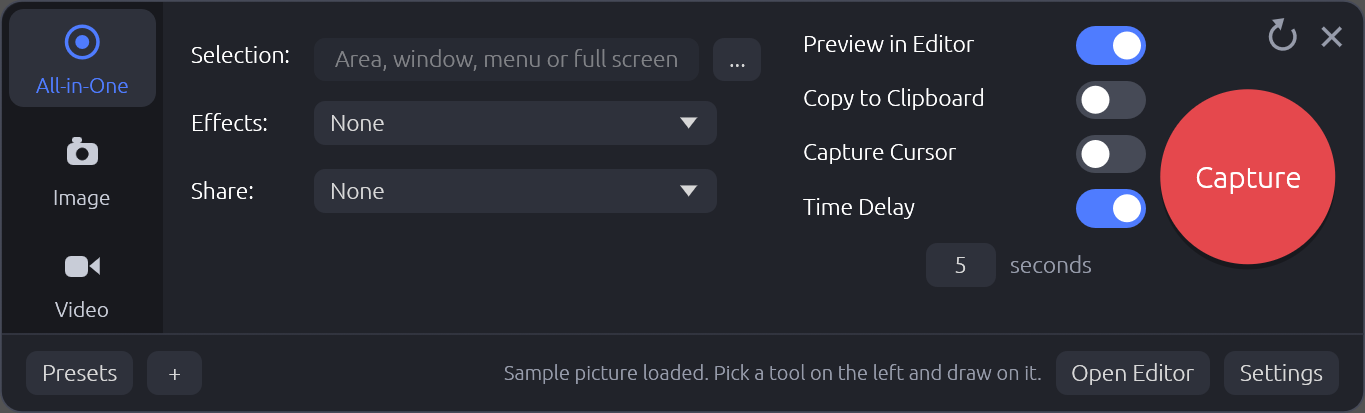
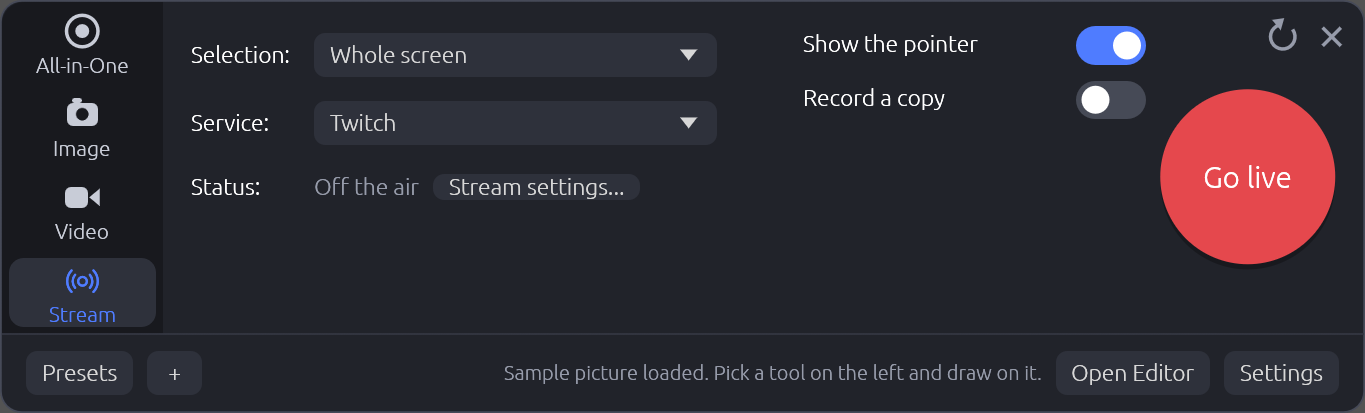
Public repository: only what users need; README pictures and features updated
- working notes, plans, developer docs and hardware scripts moved to the private Snagster-internal repository (and ignored here)
- README: new pictures (Stream tab, multistreaming settings, capture panel's Stream tab, refreshed main, Studio, languages, AI apps), multistreaming, encoder choice and responsiveness in the feature list, build steps instead of links to developer docs
- hardware report form uses Snagster's built-in --video-test and --stream-test

diff --git a/README.md b/README.md
@@ -23,11 +23,12 @@ Windows · Mac · Linux · 86 languages · works offline · written in Rust · f
 - **Mark it up** – arrows, boxes, text in any of your fonts, speech bubbles, numbered steps, 1,300+ color emojis, highlighter, spotlight, magnifier, blur and smart redact for private details.
 - **Tidy it up** – crop, cut out, move parts of the picture, borders, shadows, torn edges and more.
 - **Grab text** – copy the text out of any picture or part of the screen (Windows).
-- **Record videos with sound** – MP4 (H.264 or HEVC) or WMV, 1 to 120 frames per second, with the computer's sound, your microphone or both (sound on Windows for now). The graphics chip does the encoding where it can (Intel Quick Sync, AMD or NVIDIA on Windows; VideoToolbox on Mac and VA-API on Linux are new and not yet tried on real hardware), so recording barely touches the processor or the battery. Videos go to your **Videos/Snagster** folder, pictures to **Pictures/Snagster**.
+- **Record videos with sound** – MP4 (H.264 or HEVC) or WMV, 1 to 120 frames per second, with the computer's sound, your microphone or both (sound on Windows for now). The graphics chip does the encoding where it can (Intel Quick Sync, AMD or NVIDIA on Windows; VideoToolbox on Mac and VA-API on Linux are new and not yet tried on real hardware), so recording barely touches the processor or the battery. Snagster picks the best encoder by itself, or you choose one in Settings; if it can't start, Snagster quietly uses the best one that works. Videos go to your **Videos/Snagster** folder, pictures to **Pictures/Snagster**.
 - **Studio mode** – a live recording studio: scenes made of screens, windows, screen areas, pictures, text and colours, arranged by dragging, a sound mixer with level meters, and one-click recording.
-- **Go live** – stream the screen, a window, an area or a Studio scene to Twitch, YouTube, Kick, Facebook Live, Restream or your own RTMP server – or to several of them at once from one encode – with a LIVE badge, automatic reconnecting and an optional copy on disk. Your stream key is kept encrypted (Windows), in the Keychain (Mac) or in a private file (Linux), never in the settings file. New in the next version; not yet tried against the real services.
+- **Go live** – stream the screen, a window, an area or a Studio scene to Twitch, YouTube, Kick, Facebook Live, Restream or your own RTMP server, up to 4K at 60 fps or 1080p at 120 fps where the service takes it. **Multistream** to up to five services at once from one encode, each with its own key and connection, so one slow or failing service never affects the others. A LIVE badge, automatic reconnecting, an encoder that takes over if the graphics chip's stops working, and an optional copy on disk. Your stream keys are kept encrypted (Windows), in the Keychain (Mac) or in a private file (Linux), never in the settings file. New in the next version; not yet tried against the real services.
 - **Record GIFs** that stay small, and step-by-step guides as PDF, Word or web pages.
 - **Library** – every capture is kept, searchable by date, program and tags; works from your OneDrive or Dropbox folder.
+- **Never stops answering** – saving, exporting, opening files and making guides all happen in the background, so the window stays quick even with big captures.
 - **Your language** – 86 languages, picked automatically from your computer and changeable at any time; right-to-left languages read right to left.
 - **A ribbon like Word's** – tabs for Home, Capture, Record, Studio, Stream, Edit, Image, Share, View and Help, every tool with an icon and an explanation when you point at it.
 - **Keeps itself up to date** – Snagster checks for a new version once a day (you can turn it off) and installs it with one click.
@@ -40,6 +41,15 @@ when you start a live stream).
 <div align="center">
 <img src="assets/screenshots/studio.png" alt="Studio mode: scenes and sources on the left, the live picture in the middle, the selected source and the sound mixer on the right" width="900">
 <br><sub>Studio mode: build a scene from screens, windows, pictures and text, then record it.</sub>
+<br><br>
+<img src="assets/screenshots/stream.png" alt="The Stream tab: Go live, the service and stream key, what to stream (whole screen, a window, an area or the Studio scene), options and the live status" width="900">
+<br><sub>The Stream tab: pick a service and what to show, then Go live.</sub>
+<br><br>
+<img src="assets/screenshots/streaming-settings.png" alt="Streaming settings: Twitch as the main service, YouTube under Also stream to, picture size, frame rate, bitrate, the video encoder choice, sound and reconnecting" width="900">
+<br><sub>Multistreaming: Twitch and YouTube at once, from one encode.</sub>
+<br><br>
+<img src="assets/screenshots/capture-panel.png" alt="The small capture panel on its Stream tab: selection, service, status and a big Go live button" width="680">
+<br><sub>The small capture panel goes live too.</sub>
 <br><br>
 <img src="assets/screenshots/languages.png" alt="Snagster in Arabic (right to left) and Japanese" width="900">
 <br><sub>86 languages, including right-to-left ones.</sub>
@@ -106,19 +116,26 @@ password (`Authorization: Bearer ...`).
 add arrows, boxes, text, steps and blur; crop, resize and apply effects; undo and redo; save in every
 format; make PDF, Word and web-page guides; search and add to the library; record videos with sound at
 1–120 fps; set up and record Studio scenes; start, watch and stop a live stream (the saved stream key
-is used and never shown); read and change settings; switch language; check for updates. Every tool is
-listed in [docs/MCP.md](docs/MCP.md). It also offers ready-made prompts (annotate a screenshot, redact one, record a demo, make a
+is used and never shown); read and change settings; switch language; check for updates. Your AI app
+lists every tool with what it does. It also offers ready-made prompts (annotate a screenshot, redact one, record a demo, make a
 guide) and the current picture, settings and library as resources.
 
 **From a terminal**, the same tools: `snagster help` lists commands such as
 `snagster capture region 0 0 800 600 -o shot.png`, `snagster record 10 --fps 60 -o clip.mp4`,
 `snagster ocr picture.png` and `snagster call list_languages`.
 
-## For developers
+## Building it yourself
 
-Building, tests and how the code is laid out: [DEVELOPING.md](DEVELOPING.md). Architecture,
-streaming, encoding, capture, MCP, testing, licensing and releasing: [docs/](docs/README.md).
-What changed: [CHANGELOG.md](CHANGELOG.md); how it got here: [DEVLOG.md](DEVLOG.md).
+Snagster is one Rust program. With [Rust](https://rustup.rs) 1.88 or newer:
+
+```sh
+cargo build --release      # target/release/snagster
+cargo test                 # the unit tests (no screen, sound card or network needed)
+```
+
+Linux needs a few development packages first (on Ubuntu:
+`sudo apt install pkg-config clang libclang-dev libpipewire-0.3-dev libspa-0.2-dev libwayland-dev libxkbcommon-dev libgbm-dev libegl1-mesa-dev libgl1-mesa-dev libdrm-dev libxcb1-dev libxcb-randr0-dev libxcb-shm0-dev libxcb-xfixes0-dev libxcb-shape0-dev libdbus-1-dev nasm`).
+What changed in each version: [CHANGELOG.md](CHANGELOG.md).
 
 ## Licence
 

diff --git a/CHANGELOG.md b/CHANGELOG.md
@@ -1,6 +1,6 @@
 # Changelog
 
-What changed for people using Snagster, per version. Developer details are in `DEVLOG.md`.
+What changed for people using Snagster, per version.
 
 ## Unreleased (0.10.0)
 
